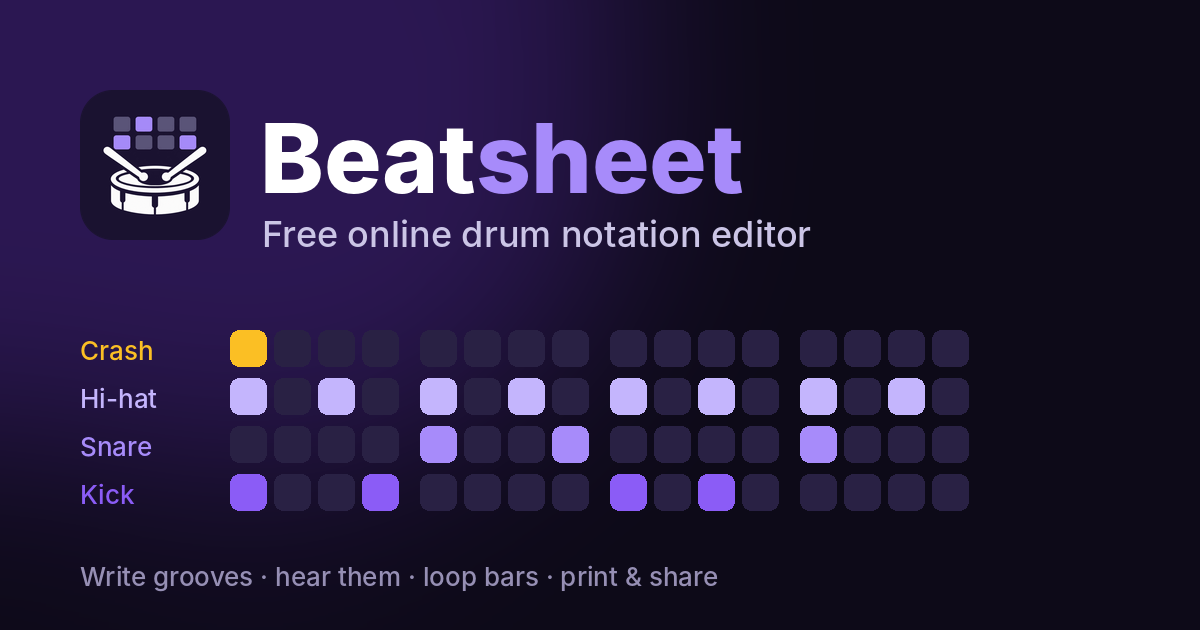
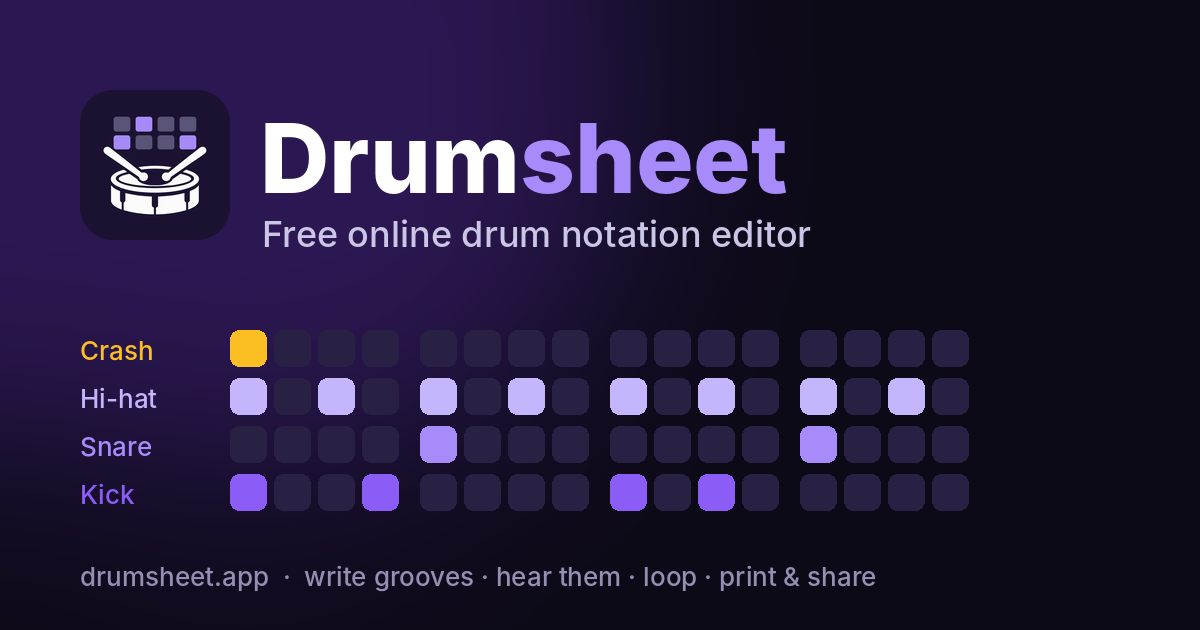
Rename to Drumsheet (drumsheet.app); homework pages play drumsheet.app links
Claude-Session: https://claude.ai/code/session_019iV3C86qbcKKDCtyRuioVR

Changed region(s): [[0.2158, 0.181, 0.6783, 0.3317], [0.0617, 0.9048, 0.74, 0.9349], [0.4625, 0.6635, 0.4933, 0.754]]

diff --git a/editor/index.html b/editor/index.html
@@ -4,8 +4,8 @@
 	<!--Copyright 2015-2020 Lou Montulli, Mike Johnston  GPL V2.0 Please See LICENSE.txt for more details -->
 
     <head>
-		<title>Beatsheet: free online drum notation editor</title>
-		<meta name="description" content="Beatsheet is a free online drum notation editor: write grooves, hear them, loop bars, mix time signatures, triplets and sextuplets, 4 toms and ride. Share, print or download.">
+		<title>Drumsheet: free online drum notation editor</title>
+		<meta name="description" content="Drumsheet is a free online drum notation editor: write grooves, hear them, loop bars, mix time signatures, triplets and sextuplets, 4 toms and ride. Share, print or download.">
 
 		<meta name="viewport" content="width=device-width, initial-scale=1">
 		<script>
@@ -89,22 +89,22 @@
 		<link rel="apple-touch-icon" href="images/apple-touch-icon.png">
 
 		<meta property="og:description" content="Free online drum notation editor: write grooves, hear them, loop bars, mixed meters, triplets, 4 toms and ride."/>
-		<meta property="og:site_name" content="Beatsheet"/>
-		<meta property="og:title" content="Beatsheet: free online drum notation editor"/>
+		<meta property="og:site_name" content="Drumsheet"/>
+		<meta property="og:title" content="Drumsheet: free online drum notation editor"/>
 		<meta property="og:type" content="website"/>
-		<meta property="og:url" content="https://bengladine.github.io/beatsheet/"/>
-		<meta property="og:image" content="https://bengladine.github.io/beatsheet/images/og-image.png"/>
+		<meta property="og:url" content="https://drumsheet.app/"/>
+		<meta property="og:image" content="https://drumsheet.app/images/og-image.png"/>
 		<meta property="og:image:width" content="1200"/>
 		<meta property="og:image:height" content="630"/>
-		<meta property="og:image:alt" content="Beatsheet: free online drum notation editor"/>
+		<meta property="og:image:alt" content="Drumsheet: free online drum notation editor"/>
 		<meta name="twitter:card" content="summary_large_image"/>
-		<meta name="twitter:image" content="https://bengladine.github.io/beatsheet/images/og-image.png"/>
+		<meta name="twitter:image" content="https://drumsheet.app/images/og-image.png"/>
 
 
 		<link rel="stylesheet" type="text/css" href="font-awesome/4.7.0/css/font-awesome.min.css">
-	    <link rel="stylesheet" type="text/css" href="css/groove_writer_orange.css?v=1795005204">
-		<link rel="stylesheet" type="text/css" href="css/groove_display_orange.css?v=1795005204">
-		<link rel="stylesheet" type="text/css" href="css/groove_ben_modern.css?v=1795005204">
+	    <link rel="stylesheet" type="text/css" href="css/groove_writer_orange.css?v=1795005837">
+		<link rel="stylesheet" type="text/css" href="css/groove_display_orange.css?v=1795005837">
+		<link rel="stylesheet" type="text/css" href="css/groove_ben_modern.css?v=1795005837">
 
 		<!--   Other peoples JS libraries    -->
 		<!-- <script src="./MIDI.js/js/MIDI/MIDI.JS.min.js" type="text/javascript"></script> -->
@@ -163,7 +163,7 @@
 
 			</div>
 			<div id="TopNav" class="fullWidthEle">
-				<span id="logoTextUpperLeft"><span class="ben-logo"><img class="ben-logo-icon" src="images/beatsheet-logo-64.png" alt="">Beat<b>sheet</b></span></span>
+				<span id="logoTextUpperLeft"><span class="ben-logo"><img class="ben-logo-icon" src="images/beatsheet-logo-64.png" alt="">Drum<b>sheet</b></span></span>
 				<span id="upperLeft">
 					<span id="metronomeContainer">
 						<span id="metronomeLabel">METRONOME:</span>
@@ -582,7 +582,7 @@
 
 
 		<!-- App entry point: ES module that boots the app and runs page-load init. -->
-		<script type="module" src="js/main.js?v=1795005204"></script>
+		<script type="module" src="js/main.js?v=1795005837"></script>
 
 
 	</div>
@@ -620,7 +620,7 @@
 				inp.oninput = function () { save(inp.value); };
 				var pr = document.createElement('div'); pr.className = 'ben-look-presets'; m.appendChild(pr);
 				['#7c3aed', '#2563eb', '#0891b2', '#059669', '#d97706', '#dc2626', '#db2777', '#475569'].forEach(function (hex) {
-					var sw = document.createElement('i'); sw.style.background = hex; sw.title = hex === '#7c3aed' ? 'Beatsheet purple (default)' : hex;
+					var sw = document.createElement('i'); sw.style.background = hex; sw.title = hex === '#7c3aed' ? 'Drumsheet purple (default)' : hex;
 					sw.onclick = function () { save(hex); }; pr.appendChild(sw);
 				});
 				var r = ev.currentTarget.getBoundingClientRect();

diff --git a/editor/js/groove_writer.js b/editor/js/groove_writer.js
@@ -24,8 +24,8 @@
 // GrooveUtils and the drum-notation / MIDI constants come from groove_utils.js.
 // Vendored libraries (Midi, MIDI, Pablo, ShareButton) remain window globals
 // provided by the classic <script> tags loaded before this module.
-import { addInlineMeter, barFraction, chooseBaseMeter } from './meters.js?v=1795005204';
-import { GrooveUtils } from './groove_utils.js?v=1795005204';
+import { addInlineMeter, barFraction, chooseBaseMeter } from './meters.js?v=1795005837';
+import { GrooveUtils } from './groove_utils.js?v=1795005837';
 import {
   constant_ABC_HH_Accent,
   constant_ABC_HH_Close,
@@ -85,10 +85,10 @@ import {
   constant_sticking_left_on_color_rgb,
   constant_sticking_both_on_color_rgb,
   constant_sticking_count_on_color_rgb,
-} from './constants.js?v=1795005204';
-import * as _perm from './permutations.js?v=1795005204';
-import * as _view from './viewHtml.js?v=1795005204';
-import * as _grid from './gridState.js?v=1795005204';
+} from './constants.js?v=1795005837';
+import * as _perm from './permutations.js?v=1795005837';
+import * as _view from './viewHtml.js?v=1795005837';
+import * as _grid from './gridState.js?v=1795005837';
 
 // GrooveWriter class.   The only one in this file.
 
@@ -136,7 +136,7 @@ function GrooveWriter() {
   );
 
   // private vars in the scope of the class
-  var class_app_title = 'Beatsheet: free online drum notation editor';
+  var class_app_title = 'Drumsheet: free online drum notation editor';
   var class_permutation_type = 'none';
   var class_advancedEditIsOn = false;
   var class_measure_for_note_label_click = 0;
@@ -5157,14 +5157,14 @@ function GrooveWriter() {
   }
   function setSheetLayout(mode) {
     if (mode == 'window') {
-      benPop = window.open('', 'beatsheet_sheet', 'width=1000,height=640');
+      benPop = window.open('', 'drumsheet_sheet', 'width=1000,height=640');
       if (!benPop) {
         alert('Your browser blocked the extra window. Allow pop-ups for this site and try again.');
         mode = 'top';
       } else {
         benPop.document.open();
         benPop.document.write(
-          '<!DOCTYPE html><html><head><meta charset="utf-8"><title>Beatsheet: sheet music</title>' +
+          '<!DOCTYPE html><html><head><meta charset="utf-8"><title>Drumsheet: sheet music</title>' +
             '<style>body{margin:0;padding:16px 20px;background:#fff;font-family:system-ui,sans-serif}' +
             'svg{display:block;width:100%;height:auto;margin:0 0 6px}' +
             '.abcr{fill:transparent}.abcr.highlighted{fill:rgba(50,126,173,.25)}</style></head>' +
@@ -5482,7 +5482,7 @@ function GrooveWriter() {
       .join('\n');
     root._benPrintLayout = false;
     root.refresh_ABC();
-    var title = (document.getElementById('tuneTitle') || {}).value || 'Beatsheet';
+    var title = (document.getElementById('tuneTitle') || {}).value || 'Drumsheet';
     var html =
       '<!DOCTYPE html><html><head><meta charset="utf-8"><title>' +
       title.replace(/</g, '&lt;') +
@@ -5575,9 +5575,9 @@ function GrooveWriter() {
       });
       canvas.toBlob(function (blob) {
         var a = document.createElement('a');
-        var title = ((document.getElementById('tuneTitle') || {}).value || 'beatsheet').trim().replace(/[^\w\- ]+/g, '');
+        var title = ((document.getElementById('tuneTitle') || {}).value || 'drumsheet').trim().replace(/[^\w\- ]+/g, '');
         a.href = URL.createObjectURL(blob);
-        a.download = (title || 'beatsheet') + '.png';
+        a.download = (title || 'drumsheet') + '.png';
         document.body.appendChild(a);
         a.click();
         setTimeout(function () {
@@ -5651,9 +5651,9 @@ function GrooveWriter() {
       .then(function (audio) {
         var blob = audioBufferToWav(audio);
         var a = document.createElement('a');
-        var title = ((document.getElementById('tuneTitle') || {}).value || 'beatsheet').trim().replace(/[^\w\- ]+/g, '');
+        var title = ((document.getElementById('tuneTitle') || {}).value || 'drumsheet').trim().replace(/[^\w\- ]+/g, '');
         a.href = URL.createObjectURL(blob);
-        a.download = (title || 'beatsheet') + '.wav';
+        a.download = (title || 'drumsheet') + '.wav';
         document.body.appendChild(a);
         a.click();
         setTimeout(function () {

diff --git a/editor/js/groove_utils.js b/editor/js/groove_utils.js
@@ -54,27 +54,27 @@ import {
   constant_OUR_MIDI_TOM2_NORMAL,
   constant_OUR_MIDI_TOM3_NORMAL,
   constant_OUR_MIDI_TOM4_NORMAL,
-} from './constants.js?v=1795005204';
+} from './constants.js?v=1795005837';
 import {
   getBrowserInfo as _getBrowserInfo,
   is_touch_device as _is_touch_device,
-} from './browserInfo.js?v=1795005204';
-import { createGrooveData } from './grooveData.js?v=1795005204';
+} from './browserInfo.js?v=1795005837';
+import { createGrooveData } from './grooveData.js?v=1795005837';
 import {
   getQueryVariableFromString as _getQueryVariableFromString,
   getGrooveDataFromUrlString as _urlParse,
   getUrlStringFromGrooveData as _urlBuild,
-} from './urlSerialization.js?v=1795005204';
+} from './urlSerialization.js?v=1795005837';
 import {
   MIDI_build_midi_url_count_in_track as _MIDI_build_midi_url_count_in_track,
   MIDI_from_HH_Snare_Kick_Arrays as _MIDI_from_HH_Snare_Kick_Arrays,
   create_MIDIURLFromGrooveData as _create_MIDIURLFromGrooveData,
-} from './midiFile.js?v=1795005204';
+} from './midiFile.js?v=1795005837';
 import {
   get_top_ABC_BoilerPlate as _get_top_ABC_BoilerPlate,
   create_ABC_from_snare_HH_kick_arrays as _create_ABC_from_snare_HH_kick_arrays,
   createABCFromGrooveData as _createABCFromGrooveData,
-} from './abcNotation.js?v=1795005204';
+} from './abcNotation.js?v=1795005837';
 import {
   parseTimeSigString as _parseTimeSigString,
   calc_notes_per_measure as _calc_notes_per_measure,
@@ -84,7 +84,7 @@ import {
   notesPerMeasureInFullSizeArray as _notesPerMeasureInFullSizeArray,
   getNoteScaler as _getNoteScaler,
   scaleNoteArrayToFullSize as _scaleNoteArrayToFullSize,
-} from './musicMath.js?v=1795005204';
+} from './musicMath.js?v=1795005837';
 import {
   noteArraysFromURLData as _noteArraysFromURLData,
   tabLineFromAbcNoteArray as _tabLineFromAbcNoteArray,
@@ -100,7 +100,7 @@ import {
   create_note_mapping_array_for_highlighting as _create_note_mapping_array_for_highlighting,
   figure_out_sticking_count_for_index as _figure_out_sticking_count_for_index,
   convert_sticking_counts_to_actual_counts as _convert_sticking_counts_to_actual_counts,
-} from './noteArrays.js?v=1795005204';
+} from './noteArrays.js?v=1795005837';
 
 var global_num_GrooveUtilsCreated = 0;
 // This module's own URL, used by getGrooveUtilsBaseLocation() to locate sibling

diff --git a/editor/gscribe_help.html b/editor/gscribe_help.html
@@ -3,7 +3,7 @@
 <head>
 <meta charset="utf-8">
 <meta name="viewport" content="width=device-width, initial-scale=1">
-<title>Beatsheet help</title>
+<title>Drumsheet help</title>
 <link rel="icon" type="image/png" href="images/favicon-32.png">
 <script>
   (function () {
@@ -38,7 +38,7 @@
 </head>
 <body>
 <a class="back" href="./">← Back to the editor</a>
-<h1><img src="images/beatsheet-icon-96.png" alt=""><span>Beat<b>sheet</b> help</span></h1>
+<h1><img src="images/beatsheet-icon-96.png" alt=""><span>Drum<b>sheet</b> help</span></h1>
 <p class="sub">Free online drum notation editor. Everything you write is stored in the link, so bookmarking or sharing the link saves your groove.</p>
 
 <h2>Writing notes</h2>
@@ -70,7 +70,7 @@
 <ul>
   <li><b>SHARE</b> gives a link (or embed code for a website).</li>
   <li><b>PRINT</b> and <b>DOWNLOAD</b> first ask for an optional title, author and comment for on the sheet.</li>
-  <li>Links made with the original Groove Scribe also open in Beatsheet.</li>
+  <li>Links made with the original Groove Scribe also open in Drumsheet.</li>
 </ul>
 
 <h2>Look</h2>
@@ -93,7 +93,7 @@
 </ul>
 
 <h2>Questions, bugs, ideas?</h2>
-<p>Use <a href="https://github.com/bengladine/beatsheet/issues/new">Feedback</a> (bottom of the editor) to report a bug or share an idea. Beatsheet is made by <a href="https://drumhof.com">Drumhof</a> (drum lessons in Gent). Like it? <a href="https://ko-fi.com/gladinathor">Buy me a coffee</a>.
+<p>Use <a href="https://github.com/bengladine/beatsheet/issues/new">Feedback</a> (bottom of the editor) to report a bug or share an idea. Drumsheet is made by <a href="https://drumhof.com">Drumhof</a> (drum lessons in Gent). Like it? <a href="https://ko-fi.com/gladinathor">Buy me a coffee</a>.
 Built on <a href="https://github.com/montulli/GrooveScribe">GrooveScribe</a> (GPL v2) · <a href="https://github.com/bengladine/beatsheet">source code</a> · <a href="gscribe_about.html">About</a></p>
 </body>
 </html>

diff --git a/editor/gscribe_about.html b/editor/gscribe_about.html
@@ -31,16 +31,16 @@
 </style>
 
 
-<title>About Beatsheet</title>
+<title>About Drumsheet</title>
 <meta name="viewport" content="width=device-width, initial-scale=1">
 <a class="back" href="./">← Back to the editor</a>
-<h1><img src="images/beatsheet-icon-96.png" alt=""><span>About Beat<b>sheet</b></span></h1>
+<h1><img src="images/beatsheet-icon-96.png" alt=""><span>About Drum<b>sheet</b></span></h1>
 
-<p>Beatsheet is a free online drum notation editor, made by <a href="https://drumhof.com">Drumhof</a> (drum lessons in Gent, Belgium).</p>
+<p>Drumsheet is a free online drum notation editor, made by <a href="https://drumhof.com">Drumhof</a> (drum lessons in Gent, Belgium).</p>
 <p>It is built on <a href="https://github.com/montulli/GrooveScribe">GrooveScribe</a> by Lou Montulli and Mike Johnston, released under the GNU General Public License v2.
-Beatsheet adds, among other things: 4 toms with their own sounds, a time signature per bar, a grid per beat (1/4 to 1/32, triplets, sextuplets),
+Drumsheet adds, among other things: 4 toms with their own sounds, a time signature per bar, a grid per beat (1/4 to 1/32, triplets, sextuplets),
 a ride row, bar tools (copy, move, clear), play-from and looping on the sheet, a pinned sheet, and a phone layout.
-Beatsheet is free software under the same license; the source code is on <a href="https://github.com/bengladine/beatsheet">GitHub</a>.</p>
+Drumsheet is free software under the same license; the source code is on <a href="https://github.com/bengladine/beatsheet">GitHub</a>.</p>
 <p>Like it? <a href="https://ko-fi.com/gladinathor">Buy me a coffee</a>.</p>
 
 <h2>About the original Groove Scribe</h2>

diff --git a/editor/css/groove_ben_modern.css b/editor/css/groove_ben_modern.css
@@ -644,7 +644,7 @@ body,
   #measureContainer { justify-content: center; }
 }
 
-/* ---- Beatsheet branding ---- */
+/* ---- Drumsheet branding ---- */
 .ben-logo { font-size: 20px; font-weight: 800; letter-spacing: -0.02em; color: #fff; white-space: nowrap; line-height: 1; }
 .ben-logo b { font-weight: 800; color: #4ade80; }
 #logoTextUpperLeft img { display: none; }
@@ -994,7 +994,7 @@ body, #GrooveWriter, #RightHandContent, #TopNav, #midiPlayer, #sheetMusicDiv .sv
 }
 
 /* =====================================================================
-   Beatsheet palette: blue brand colour (replaces Groove Scribe's green).
+   Drumsheet palette: blue brand colour (replaces Groove Scribe's green).
    Orange stays only for loops; amber is the dark-mode playback colour.
    ===================================================================== */
 :root { --ben-brand: #2563eb; --ben-brand-soft: #eff6ff; --ben-brand-ink: #ffffff; --ben-green: var(--ben-brand); }
@@ -1024,7 +1024,7 @@ input[type='range'] { accent-color: var(--ben-brand); }
 #benFooter a { color: var(--ben-brand); }
 
 /* =====================================================================
-   Old Groove Scribe popups in the Beatsheet style
+   Old Groove Scribe popups in the Drumsheet style
    (Share, metronome auto speed-up, time signature, grooves list)
    ===================================================================== */
 #fullURLPopup, #metronomeAutoSpeedupConfiguration, #timeSigPopup {

diff --git a/editor/js/urlSerialization.js b/editor/js/urlSerialization.js
@@ -4,10 +4,10 @@
 // getGrooveDataFromUrlString / getUrlStringFromGrooveData methods here, passing
 // its instance flags through the parse function's `config` argument.
 
-import { createGrooveData } from './grooveData.js?v=1795005204';
-import { parseMeters, metersToString } from './meters.js?v=1795005204';
-import { constant_DEFAULT_TEMPO, constant_MAX_MEASURES } from './constants.js?v=1795005204';
-import { parseTimeSigString, calc_notes_per_measure } from './musicMath.js?v=1795005204';
+import { createGrooveData } from './grooveData.js?v=1795005837';
+import { parseMeters, metersToString } from './meters.js?v=1795005837';
+import { constant_DEFAULT_TEMPO, constant_MAX_MEASURES } from './constants.js?v=1795005837';
+import { parseTimeSigString, calc_notes_per_measure } from './musicMath.js?v=1795005837';
 import {
   noteArraysFromURLData,
   tabLineFromAbcNoteArray,
@@ -16,7 +16,7 @@ import {
   GetDefaultSnareGroove,
   GetDefaultKickGroove,
   GetDefaultTomGroove,
-} from './noteArrays.js?v=1795005204';
+} from './noteArrays.js?v=1795005837';
 
 export function getQueryVariableFromString(variable, def_value, my_string) {
   // Tolerate query strings with or without a leading '?'. window.location.search

diff --git a/editor/js/abcNotation.js b/editor/js/abcNotation.js
@@ -3,17 +3,17 @@
 // triplet / sticking-count helpers that remain in GrooveUtils; the internal
 // helpers below are pure. GrooveUtils delegates its ABC methods here.
 
-import { constant_NUMBER_OF_TOMS } from './constants.js?v=1795005204';
-import { meterFor, usedSlots, addInlineMeter } from './meters.js?v=1795005204';
+import { constant_NUMBER_OF_TOMS } from './constants.js?v=1795005837';
+import { meterFor, usedSlots, addInlineMeter } from './meters.js?v=1795005837';
 import {
   isTripletDivisionFromNotesPerMeasure,
   notesPerMeasureInFullSizeArray,
   scaleNoteArrayToFullSize,
-} from './musicMath.js?v=1795005204';
+} from './musicMath.js?v=1795005837';
 import {
   create_note_mapping_array_for_highlighting,
   convert_sticking_counts_to_actual_counts,
-} from './noteArrays.js?v=1795005204';
+} from './noteArrays.js?v=1795005837';
 
 function moveAccentsOrOtherModifiersOutsideOfGroup(abcNoteStrings, modifier_to_look_for) {
   var found_modifier = false;

diff --git a/index.html b/index.html
@@ -156,8 +156,8 @@
       ? q.replace(/((?:^|&)Tempo=)\d+/, "$1" + bpm)
       : q + "&Tempo=" + bpm;
     // links made in Ben's own editor play in Ben's own player (4 toms, mixed meters, ride row...)
-    if (/\/drumhomework\/editor\//.test(url)) return "editor/GrooveEmbed.html?" + query;
-    if (/\/beatsheet\//.test(url)) return "https://bengladine.github.io/beatsheet/GrooveEmbed.html?" + query;
+    // (old editor/ links, Beatsheet links and drumsheet.app links all play in the copy in editor/)
+    if (/\/drumhomework\/editor\/|\/beatsheet\/|drumsheet\.app/.test(url)) return "editor/GrooveEmbed.html?" + query;
     return "https://www.mikeslessons.com/groove/GrooveEmbed.html?" + query;
   }
 

diff --git a/editor/js/midiFile.js b/editor/js/midiFile.js
@@ -58,9 +58,9 @@ import {
   constant_OUR_MIDI_VELOCITY_ACCENT,
   constant_OUR_MIDI_VELOCITY_GHOST,
   constant_OUR_MIDI_VELOCITY_NORMAL,
-} from './constants.js?v=1795005204';
-import { meterFor, usedSlots } from './meters.js?v=1795005204';
-import { isTripletDivisionFromNotesPerMeasure, scaleNoteArrayToFullSize } from './musicMath.js?v=1795005204';
+} from './constants.js?v=1795005837';
+import { meterFor, usedSlots } from './meters.js?v=1795005837';
+import { isTripletDivisionFromNotesPerMeasure, scaleNoteArrayToFullSize } from './musicMath.js?v=1795005837';
 
 export function MIDI_build_midi_url_count_in_track(gu, timeSigTop, timeSigBottom) {
   var midiFile = new Midi.File();

diff --git a/editor/js/main.js b/editor/js/main.js
@@ -7,9 +7,9 @@
 // re-exposes the public API on window for the inline HTML onclick handlers, and
 // builds the same dynamic DOM into placeholder containers after parse.
 
-import { GrooveWriter } from './groove_writer.js?v=1795005204';
-import { GrooveUtils } from './groove_utils.js?v=1795005204';
-import { grooves } from './grooves.js?v=1795005204';
+import { GrooveWriter } from './groove_writer.js?v=1795005837';
+import { GrooveUtils } from './groove_utils.js?v=1795005837';
+import { grooves } from './grooves.js?v=1795005837';
 
 // Inline HTML handlers (onclick="myGrooveWriter.…") and other consumers still
 // reference these as globals, so expose them on window.

diff --git a/editor/js/gridState.js b/editor/js/gridState.js
@@ -10,7 +10,7 @@
 // passed in. The write side (set_*_state, which also plays sounds and refreshes)
 // stays in GrooveWriter.
 
-import { getNoteScaler } from './musicMath.js?v=1795005204';
+import { getNoteScaler } from './musicMath.js?v=1795005837';
 import {
   constant_ABC_HH_Accent,
   constant_ABC_HH_Close,
@@ -48,7 +48,7 @@ import {
   constant_sticking_count_on_color_rgb,
   constant_sticking_left_on_color_rgb,
   constant_sticking_right_on_color_rgb,
-} from './constants.js?v=1795005204';
+} from './constants.js?v=1795005837';
 
 export function is_snare_on(id) {
   var state = get_snare_state(id, 'ABC');
